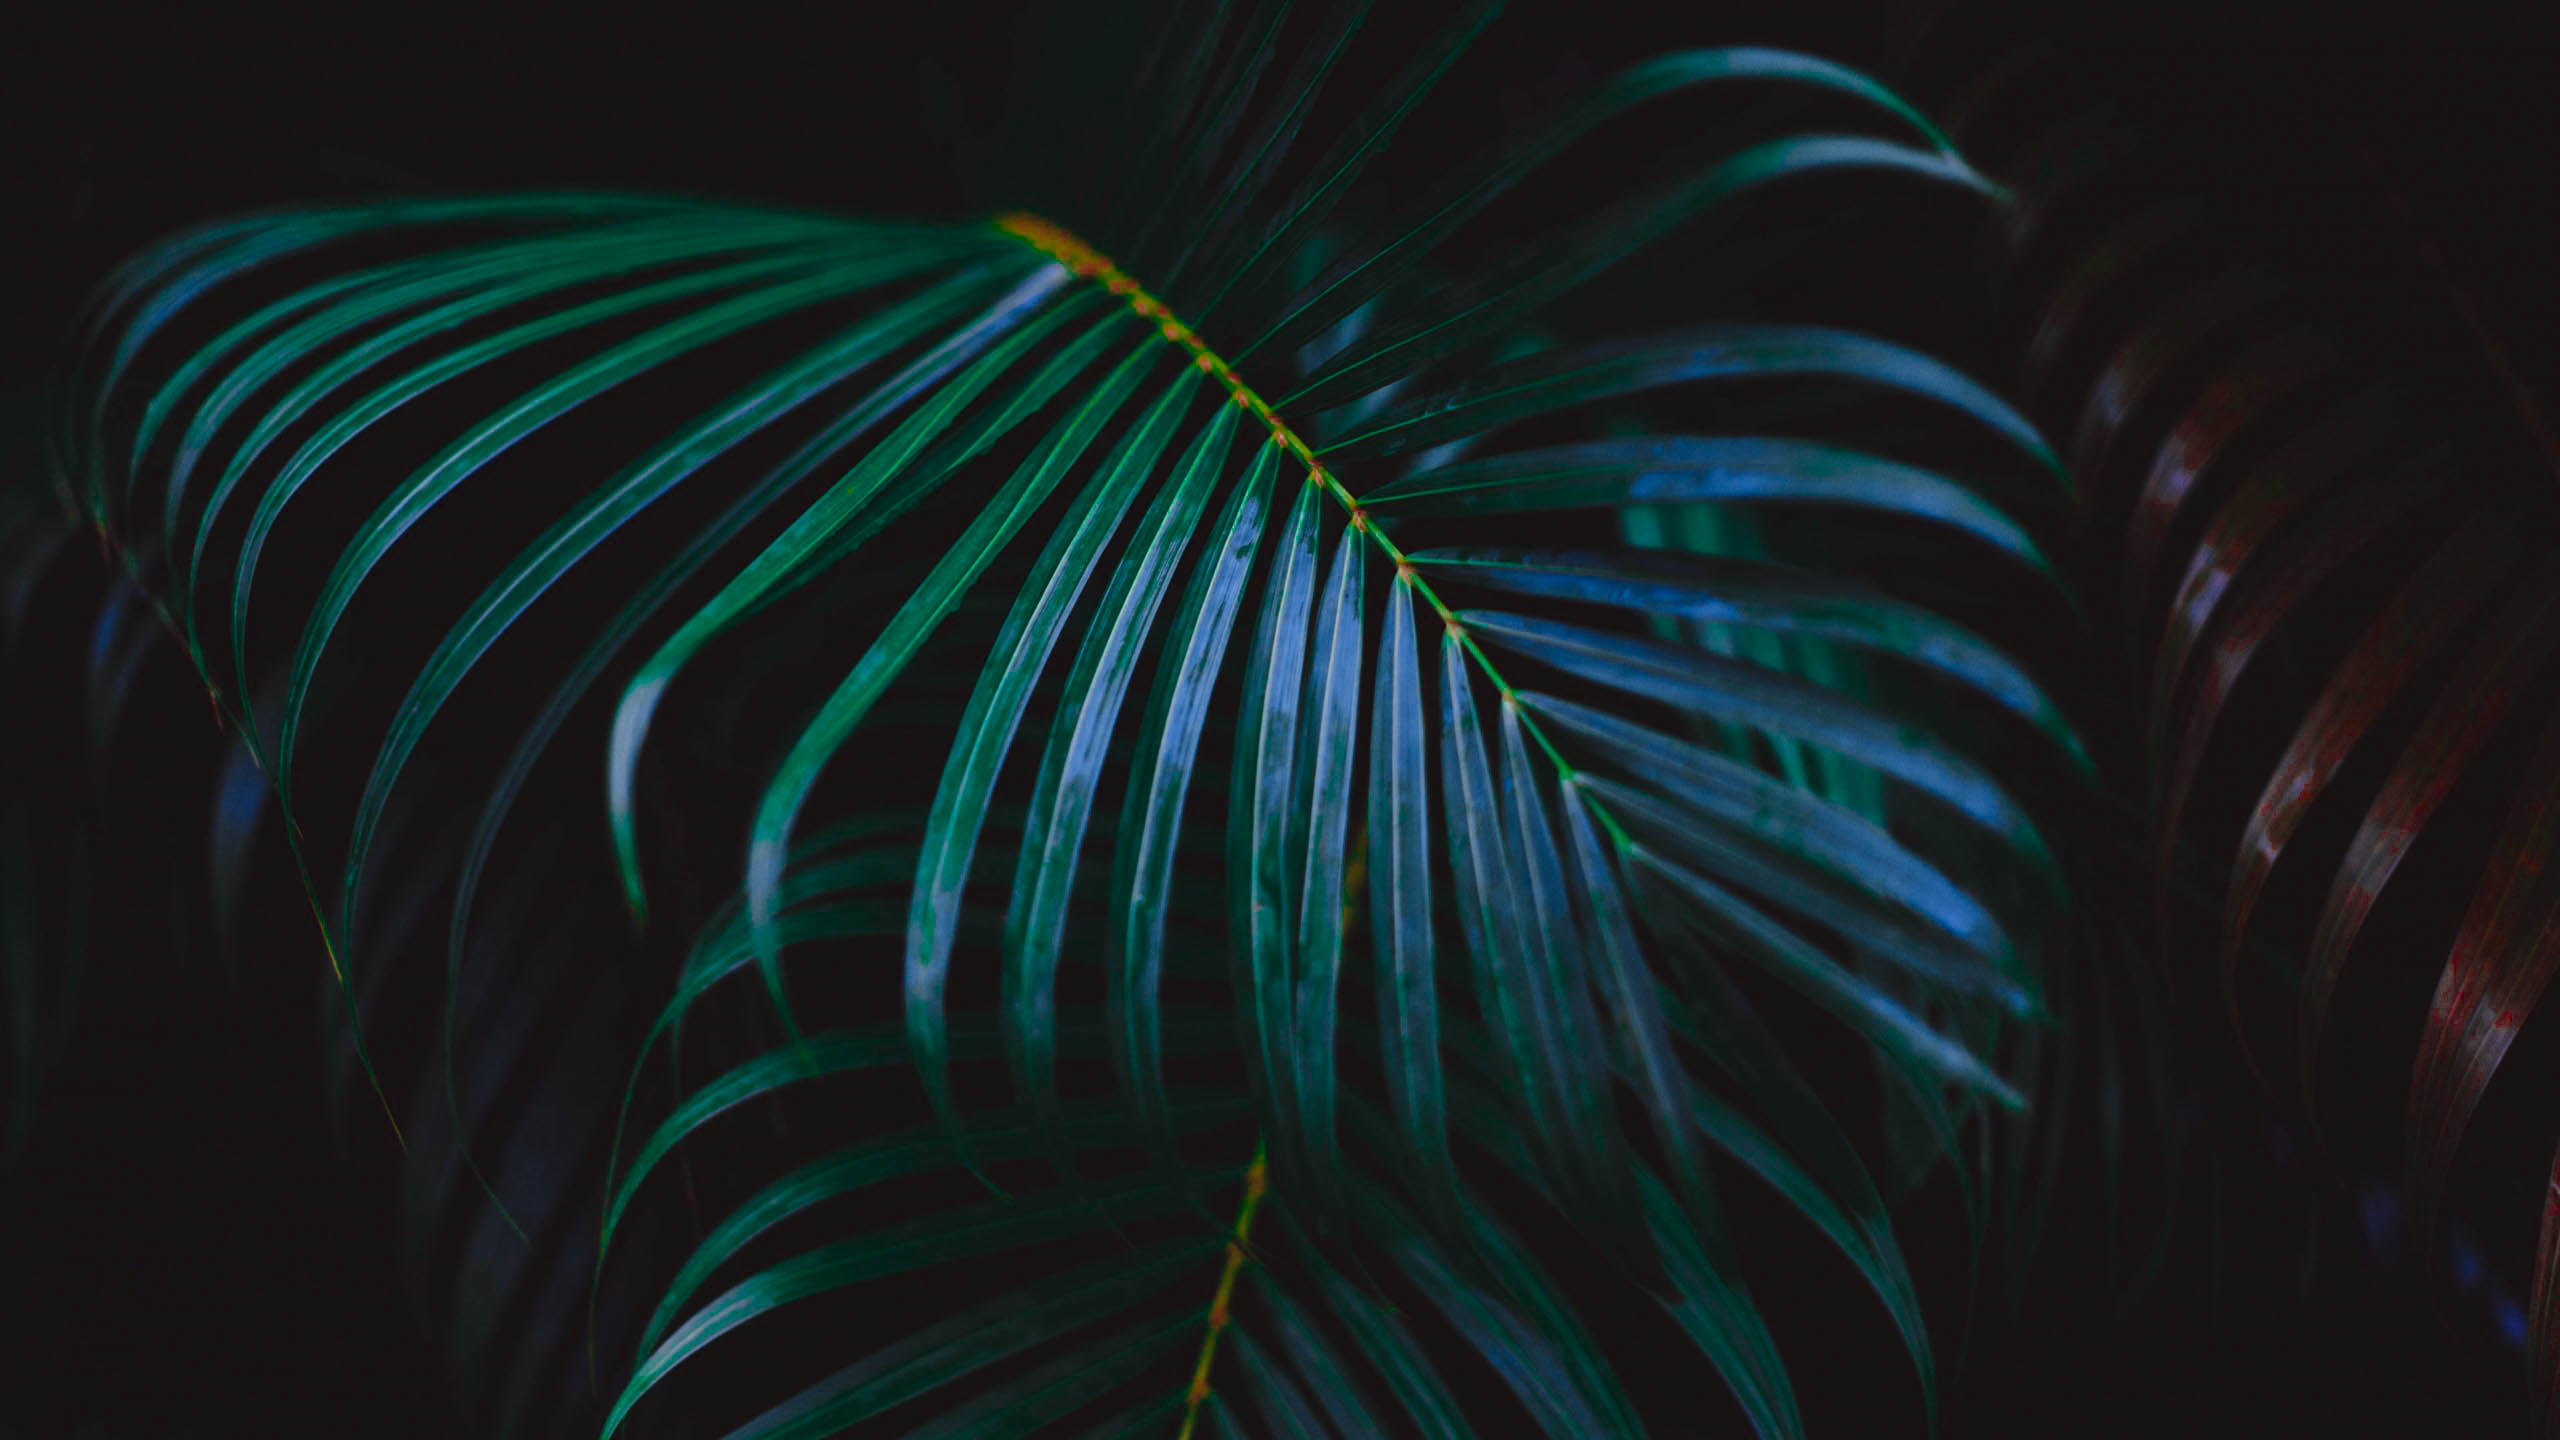
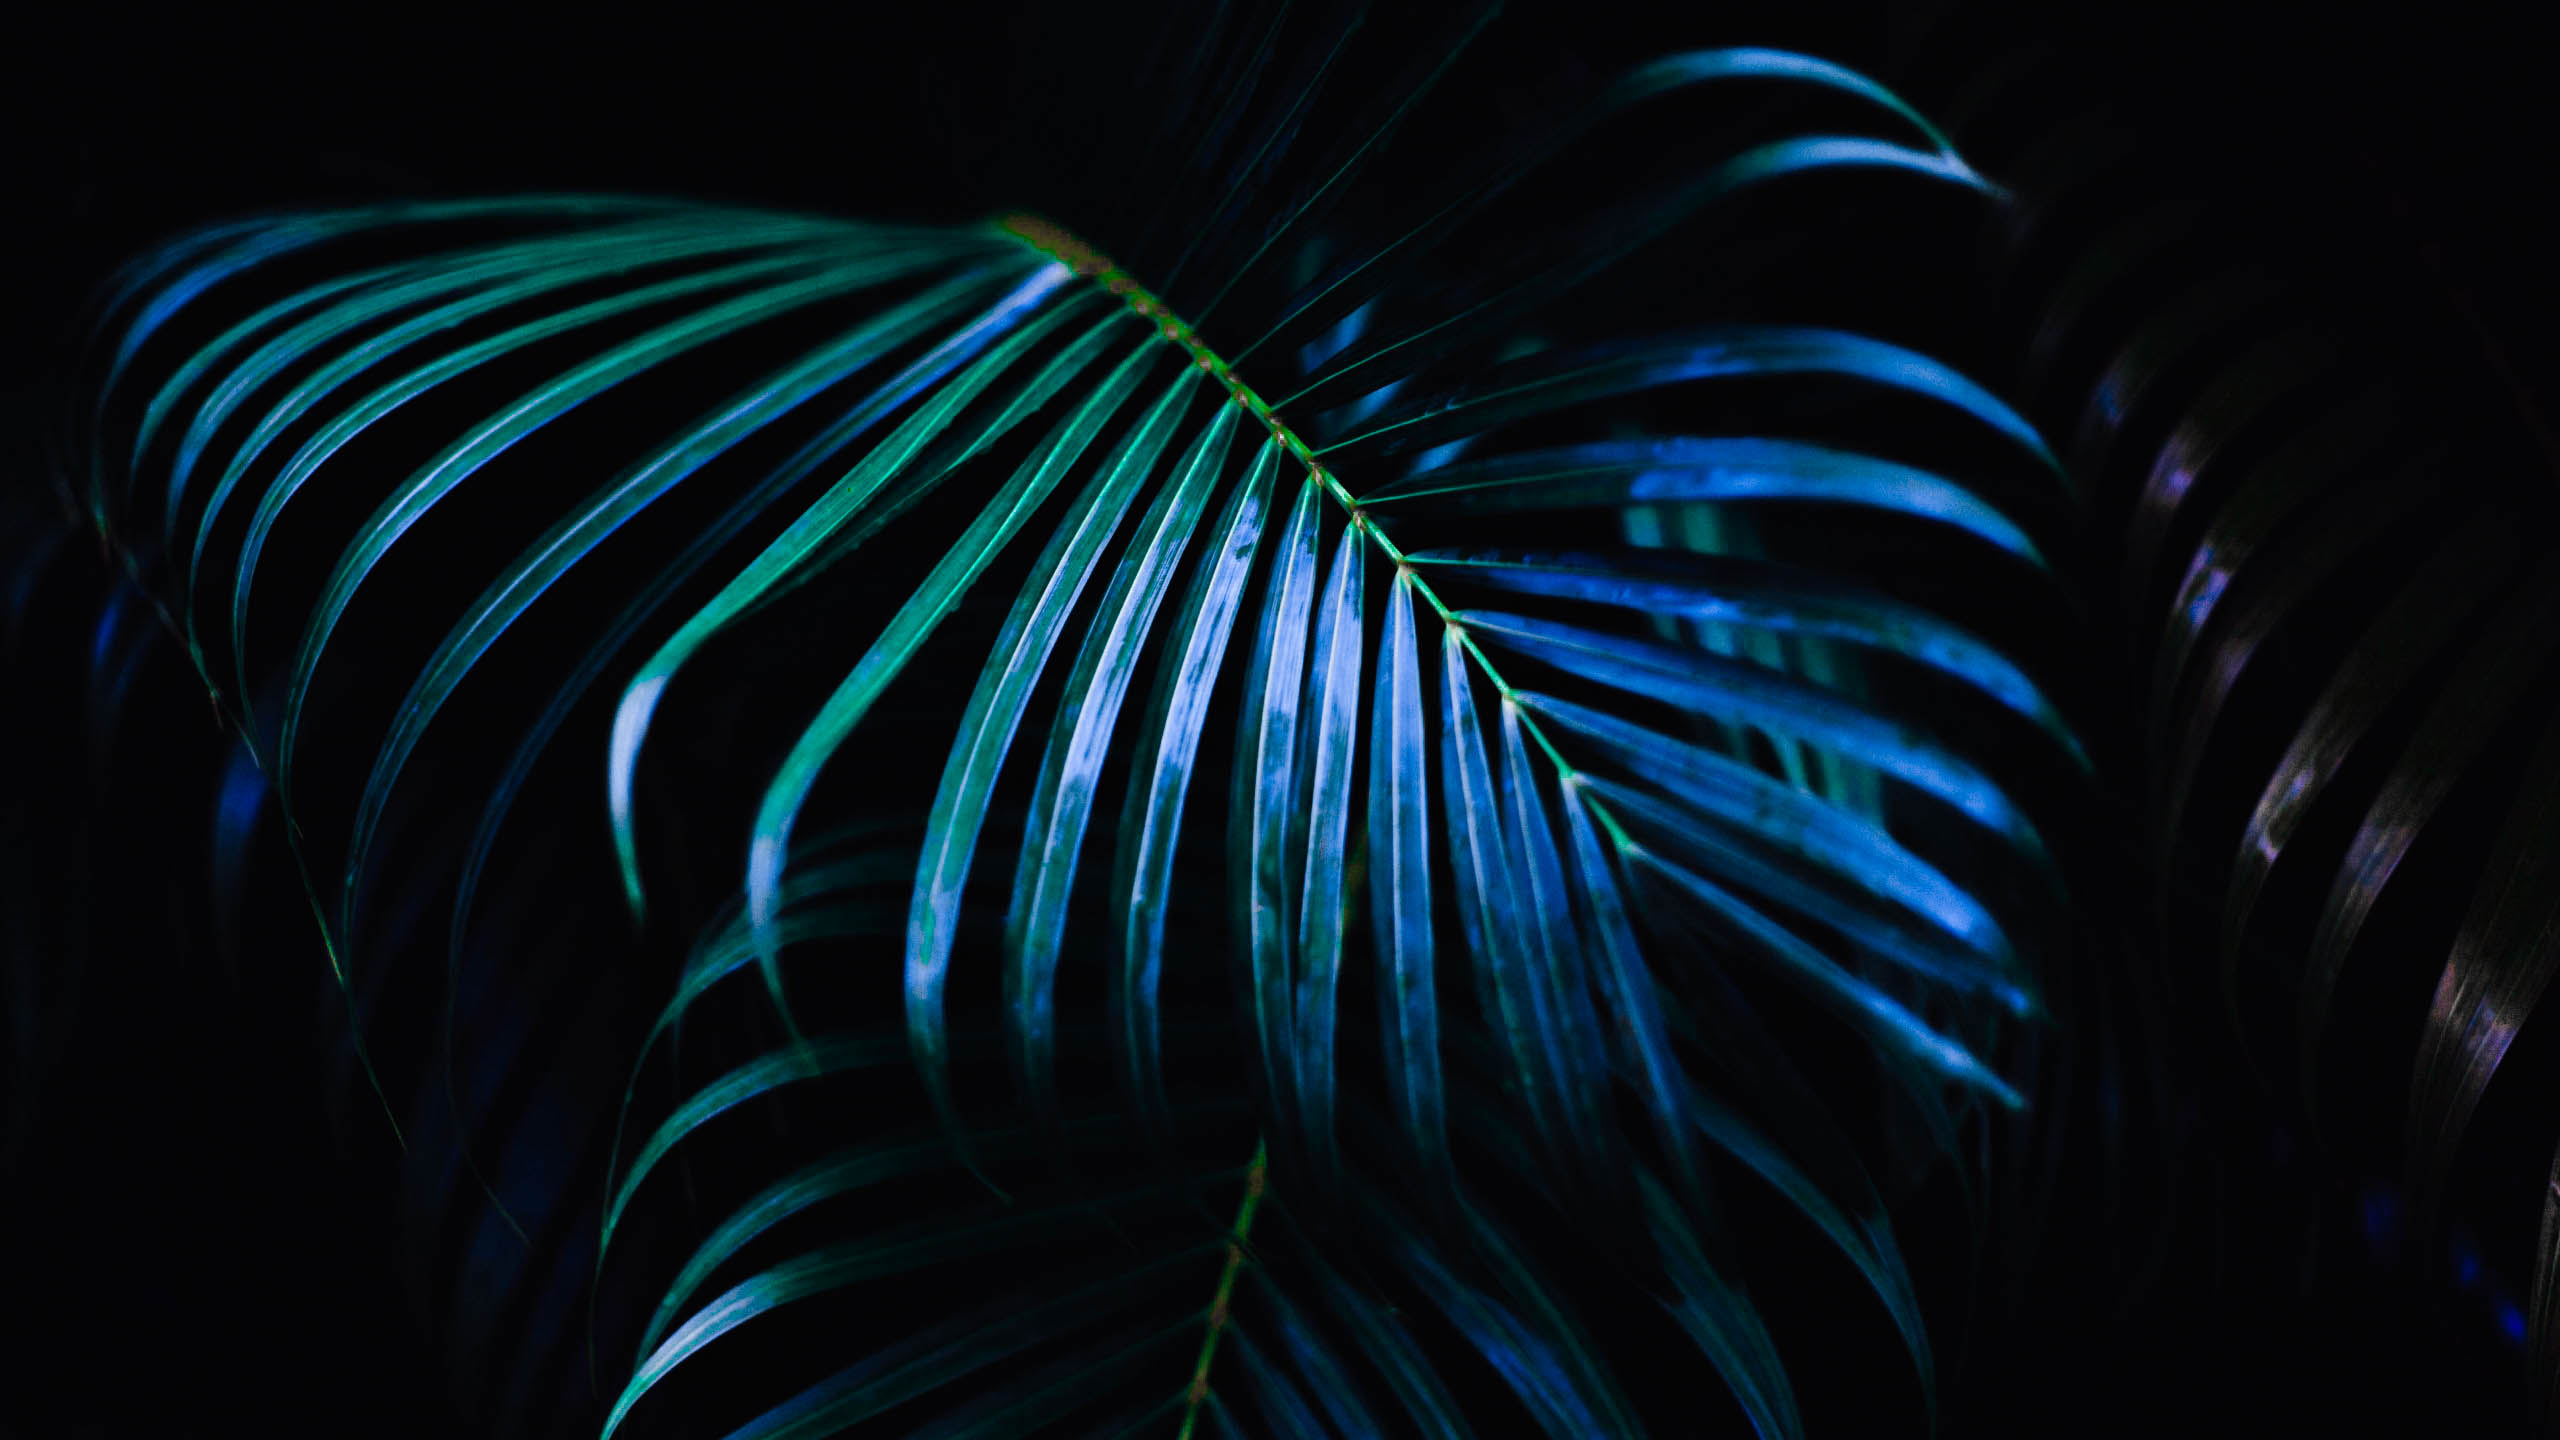
Clean up img directory

diff --git a/assets/css/index.css b/assets/css/index.css
@@ -9,7 +9,7 @@ section {
 #hero {
     height: 90vh;
     width: 100%;
-    background-image: url({{ site.baseurl }}/assets/img/leaves-4.jpg);
+    background-image: url({{ site.baseurl }}/assets/img/leaves.jpg);
     background-position: center;
     background-size: cover;
     display: flex;

diff --git a/writeups/_people/johndoe.md b/writeups/_people/johndoe.md
@@ -1,6 +1,6 @@
 ---
 name: John H. Doe
-image-name: john.jpg
+image_name: john.jpg
 group: AMMST
 ---
 Something about this **councillor**. Lorem ipsum dolor sit amet, consectetur adipisicing elit. Vel numquam odit, repellendus ipsa cupiditate, repudiandae mollitia libero laborum quidem eius optio error saepe nemo quibusdam, aliquid dolore, minus ex. Ullam?
